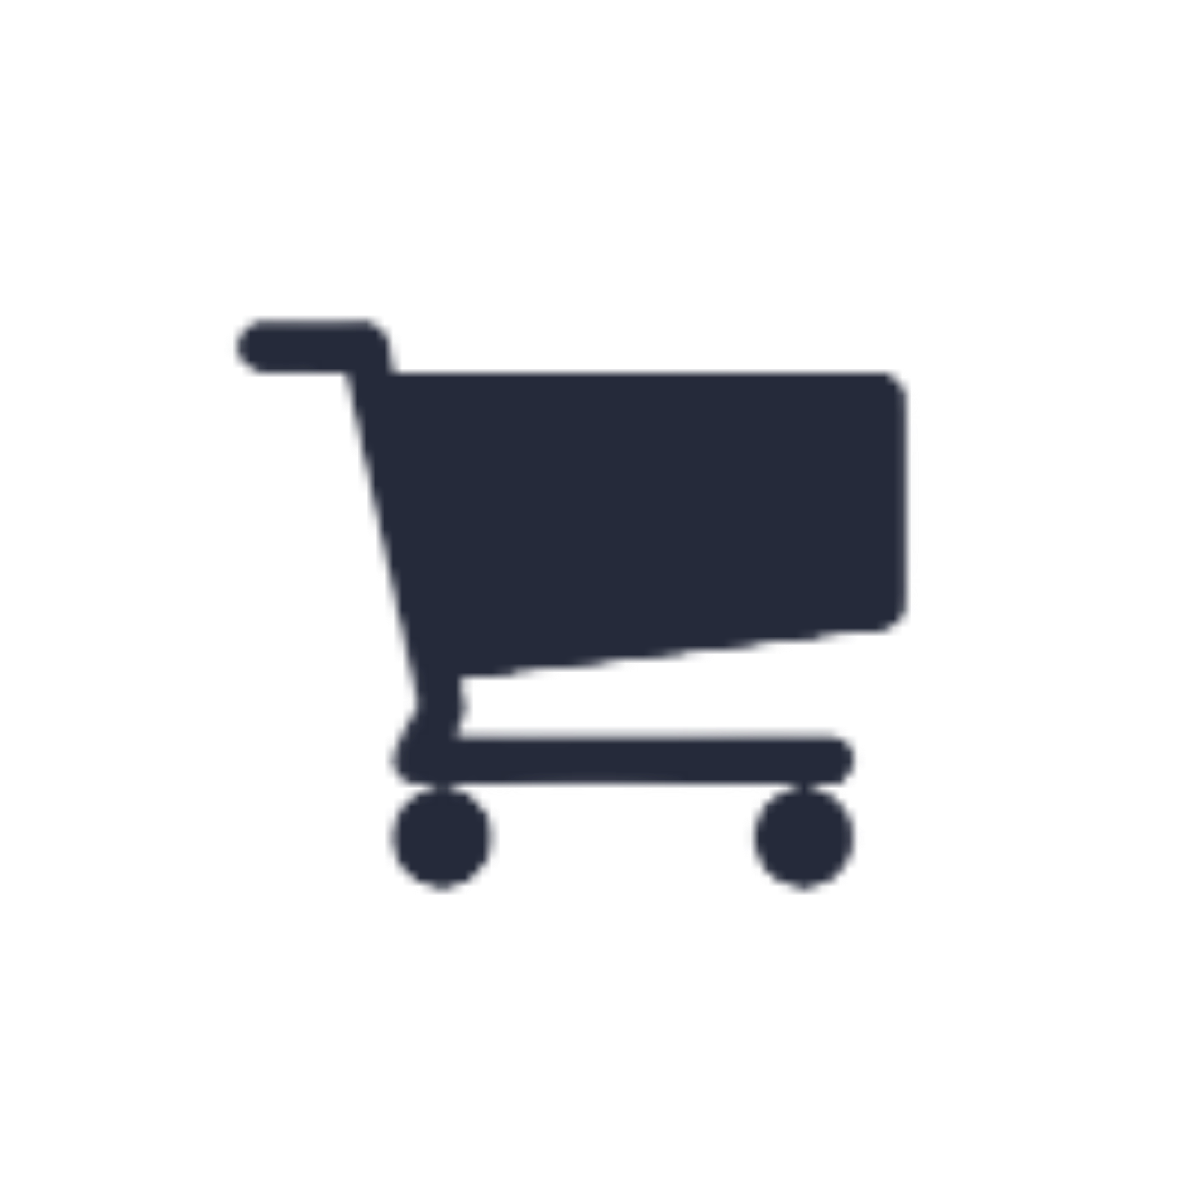
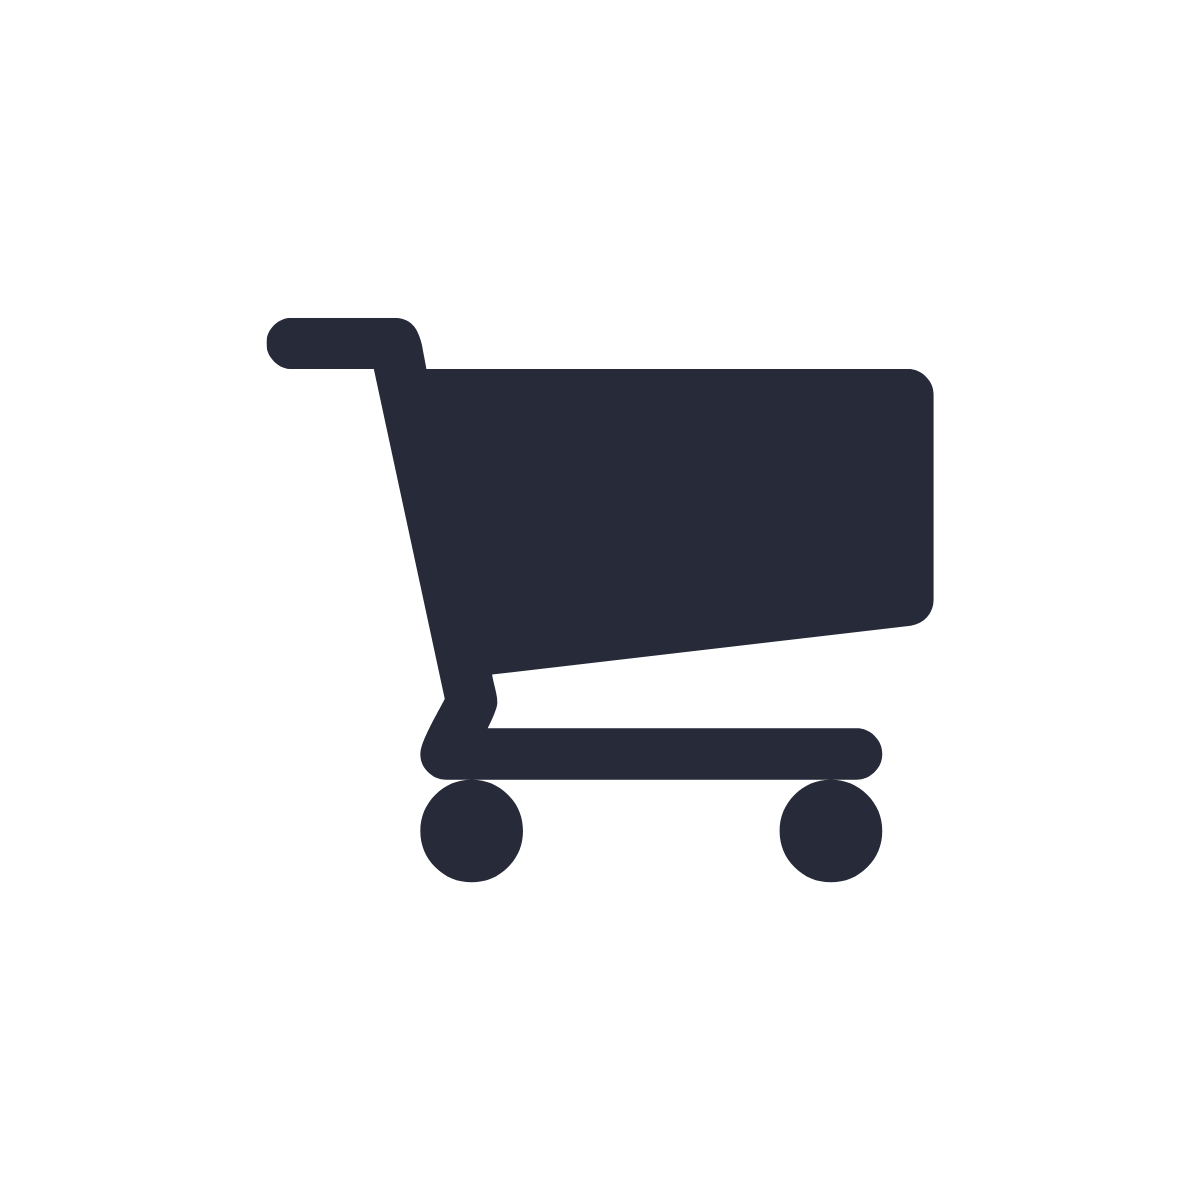
Fix images homepage

Changed region(s): [[0.185, 0.2467, 0.8017, 0.7708], [0.4933, 0.5242, 0.74, 0.555]]

diff --git a/pages/.ipynb_checkpoints/home-checkpoint.py b/pages/.ipynb_checkpoints/home-checkpoint.py
@@ -10,8 +10,8 @@ def image_to_base64(image_path):
 logo = image_to_base64("images/logo.png")
 icons = {
     "ordering": image_to_base64("images/ordering.png"),
-    #"transfer": image_to_base64("images/transfer.png"),
-    #"pricing": image_to_base64("images/pricing.png"),
+    "transfer": image_to_base64("images/item_report.png"),
+    "small": image_to_base64("images/small_order.png"),
     #"inventory": image_to_base64("images/inventory.png"),
 }
 
@@ -31,7 +31,7 @@ tools = [
         "description": "Upload a 90-day Lightspeed report and generate a small vendor report.",
         "status": "Coming Soon",
         "category": "Ordering Tools",
-        "icon": "📊",
+        "icon": icons["small"],
         "page": None,
         "enabled": False,
     },
@@ -40,7 +40,7 @@ tools = [
         "description": "Transfer Dusty inventory to the stores that need it most.",
         "status": "Coming Soon",
         "category": "Inventory Tools",
-        "icon": "📤",
+        "icon": icons["transfer"],
         "page": None,
         "enabled": False,
     },

diff --git a/pages/home.py b/pages/home.py
@@ -10,8 +10,8 @@ def image_to_base64(image_path):
 logo = image_to_base64("images/logo.png")
 icons = {
     "ordering": image_to_base64("images/ordering.png"),
-    #"transfer": image_to_base64("images/transfer.png"),
-    #"pricing": image_to_base64("images/pricing.png"),
+    "transfer": image_to_base64("images/item_report.png"),
+    "small": image_to_base64("images/small_order.png"),
     #"inventory": image_to_base64("images/inventory.png"),
 }
 
@@ -31,7 +31,7 @@ tools = [
         "description": "Upload a 90-day Lightspeed report and generate a small vendor report.",
         "status": "Coming Soon",
         "category": "Ordering Tools",
-        "icon": "📊",
+        "icon": icons["small"],
         "page": None,
         "enabled": False,
     },
@@ -40,7 +40,7 @@ tools = [
         "description": "Transfer Dusty inventory to the stores that need it most.",
         "status": "Coming Soon",
         "category": "Inventory Tools",
-        "icon": "📤",
+        "icon": icons["transfer"],
         "page": None,
         "enabled": False,
     },